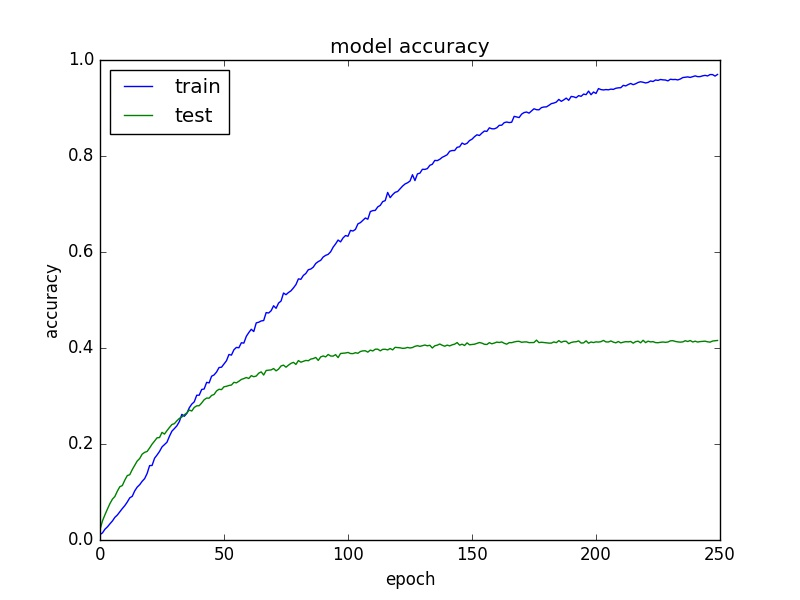
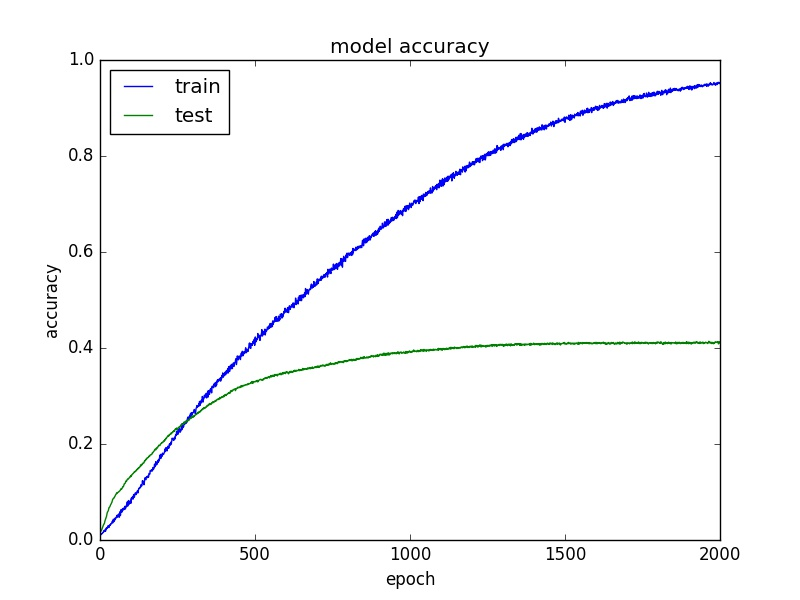
Add train finetune56

diff --git a/deep/util.py b/deep/util.py
@@ -42,7 +42,7 @@ def save_history(history, prefix, fold_count):
     img_path = '{}/{}-%s.jpg'.format("hist", prefix)
     # save hist to numpy
     data={'train_loss': train_loss, 'val_loss':  val_loss, 'train_acc': train_acc, 'val_acc': val_acc }
-    np.save(open('alex_finetune567_hist'+ str(fold_count) +'.npy', 'wb'), data)
+    np.save(open(prefix + "_hist" + str(fold_count) +'.npy', 'wb'), data)
 
     # summarize history for accuracy
     plt.plot(train_acc)
@@ -109,7 +109,7 @@ def plot_confusion_matrix(cm, title='Confusion matrix', cmap=plt.cm.jet):
     plt.ylabel('True label')
     plt.xlabel('Predicted label')
 
-def get_top_model_for_alexnet(nb_class=None, shape=None, weights_file_path=None, input=None, output=None):
+def get_top_model_for_alexnet_finetune567(nb_class=None, shape=None, weights_file_path=None, input=None, output=None):
     x = ZeroPadding2D((1,1))(output)
     conv_5 = merge([
         Convolution2D(128,3,3,activation="relu",name='conv_5_'+str(i+1),W_regularizer=l2(0.0002))(
@@ -135,7 +135,24 @@ def get_top_model_for_alexnet(nb_class=None, shape=None, weights_file_path=None,
 
     return model
 
-def load_alexnet_model(weights_path=None, nb_class=None):
+def get_top_model_for_alexnet_finetune56(nb_class=None, shape=None, weights_file_path=None, input=None, output=None):
+    dense_1 = Flatten(name="flatten")(output)
+
+    dense_1 = Dense(4096, activation='relu',name='dense_1')(dense_1)
+    dense_2 = Dropout(0.5)(dense_1)
+
+
+    dense_2 = Dense(4096, activation='relu',name='dense_2')(dense_2)
+    dense_3 = Dropout(0.5)(dense_2)
+
+
+    dense_3 = Dense(nb_class,name='dense_3')(dense_3)
+    predictions = Activation("softmax",name="softmax")(dense_3)
+    model = Model(input=input, output=predictions)
+
+    return model
+
+def load_alexnet_model_finetune567(weights_path=None, nb_class=None):
 
     inputs = Input(shape=(3,227,227))
     conv_1 = Convolution2D(96, 11, 11,subsample=(4,4),
@@ -188,7 +205,7 @@ def load_alexnet_model(weights_path=None, nb_class=None):
         layer.trainable = False
 
 
-    model = get_top_model_for_alexnet(
+    model = get_top_model_for_alexnet_finetune567(
         shape=base_model.output_shape[1:],
         nb_class=nb_class,
         #weights_file_path="bottleneck_fc_model.h5",
@@ -196,6 +213,69 @@ def load_alexnet_model(weights_path=None, nb_class=None):
         output=base_model.output)
 
     return model
+
+def load_alexnet_model_finetune56(weights_path=None, nb_class=None):
+
+    inputs = Input(shape=(3,227,227))
+    conv_1 = Convolution2D(96, 11, 11,subsample=(4,4),
+                            activation='relu',
+                            name='conv_1',
+                            W_regularizer=l2(0.0002))(inputs)
+
+    conv_2 = MaxPooling2D((3, 3), strides=(2,2))(conv_1)
+    conv_2 = crosschannelnormalization(name="convpool_1")(conv_2)
+    conv_2 = ZeroPadding2D((2,2))(conv_2)
+    conv_2 = merge([
+        Convolution2D(128,5,5,
+                      activation="relu",
+                      name='conv_2_'+str(i+1),
+                      W_regularizer=l2(0.0002))(
+            splittensor(ratio_split=2,id_split=i)(conv_2)
+        ) for i in range(2)], mode='concat',concat_axis=1,name="conv_2")
+    conv_3 = MaxPooling2D((3, 3), strides=(2, 2))(conv_2)
+    conv_3 = crosschannelnormalization()(conv_3)
+    conv_3 = ZeroPadding2D((1,1))(conv_3)
+    conv_3 = Convolution2D(384,3,3,activation='relu',name='conv_3', W_regularizer=l2(0.0002))(conv_3)
+
+    conv_4 = ZeroPadding2D((1,1))(conv_3)
+    conv_4 = merge([
+        Convolution2D(192,3,3,activation="relu",name='conv_4_'+str(i+1),W_regularizer=l2(0.0002))(
+            splittensor(ratio_split=2,id_split=i)(conv_4)
+        ) for i in range(2)], mode='concat',concat_axis=1,name="conv_4")
+
+    conv_5 = ZeroPadding2D((1,1))(conv_4)
+    conv_5 = merge([
+        Convolution2D(128,3,3,activation="relu",name='conv_5_'+str(i+1),W_regularizer=l2(0.0002))(
+            splittensor(ratio_split=2,id_split=i)(conv_5)
+        ) for i in range(2)], mode='concat',concat_axis=1,name="conv_5")
+
+    conv_5 = MaxPooling2D((3, 3), strides=(2,2),name="convpool_5")(conv_5)
+
+    dense_1 = Flatten(name="flatten")(conv_5)
+    dense_1 = Dense(4096, activation='relu',name='dense_1')(dense_1)
+    dense_2 = Dropout(0.5)(dense_1)
+    dense_2 = Dense(4096, activation='relu',name='dense_2')(dense_2)
+    dense_3 = Dropout(0.5)(dense_2)
+    dense_3 = Dense(nb_class,name='dense_3')(dense_3)
+    prediction = Activation("softmax",name="softmax")(dense_3)
+
+    base_model = Model(input=inputs, output=prediction)
+    base_model.load_weights(weights_path)
+    base_model = Model(input=inputs, output=conv_5)
+
+    for layer in base_model.layers:
+        layer.trainable = False
+
+
+    model = get_top_model_for_alexnet_finetune56(
+        shape=base_model.output_shape[1:],
+        nb_class=nb_class,
+        #weights_file_path="bottleneck_fc_model.h5",
+        input=base_model.input,
+        output=base_model.output)
+
+    return model
+
 
 def load_svm_alex_model(weights_path=None, nb_class=None):
 

diff --git a/deep/alex_finetune56.py b/deep/alex_finetune56.py
@@ -21,7 +21,7 @@ def tune(X_train, X_test, y_train, y_test):
     Y_test = np_utils.to_categorical(y_test, config.nb_class)
 
     model = None
-    model = util.load_alexnet_model_finetune567(weights_path=config.alexnet_weights_path, nb_class=config.nb_class)
+    model = util.load_alexnet_model_finetune56(weights_path=config.alexnet_weights_path, nb_class=config.nb_class)
 
     model.compile(
         loss='categorical_crossentropy',
@@ -34,7 +34,7 @@ def tune(X_train, X_test, y_train, y_test):
               nb_epoch=2000, batch_size=32,verbose=1,
               validation_data=(X_test, Y_test))
 
-    util.save_history(hist,"hist/finetune56_fold"+ str(fold_count),fold_count)
+    util.save_history(hist,"finetune56_fold"+ str(fold_count),fold_count)
 
     scores = model.evaluate(X_test, Y_test, verbose=0)
     print("Softmax %s: %.2f%%" % (model.metrics_names[1], scores[1]*100))
